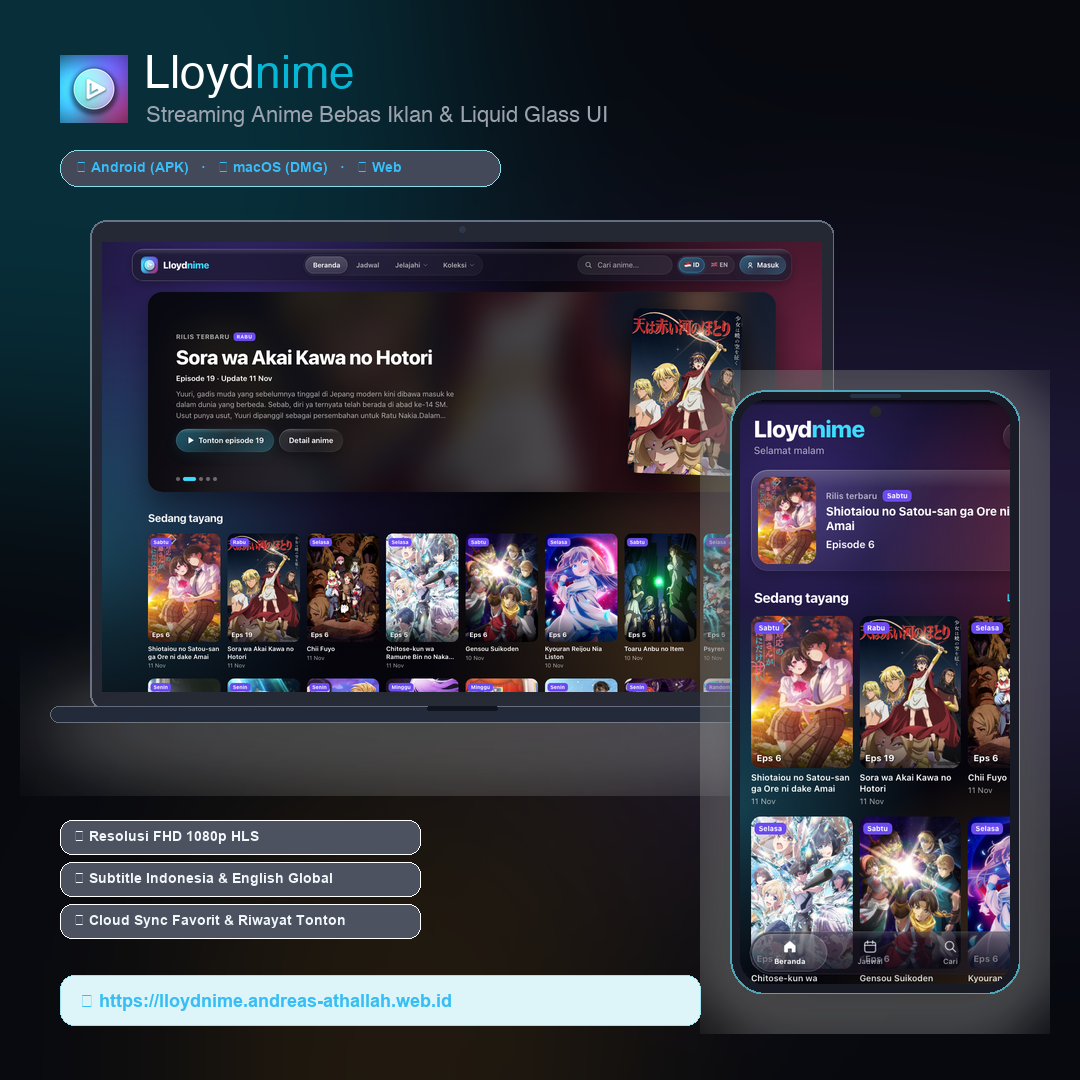
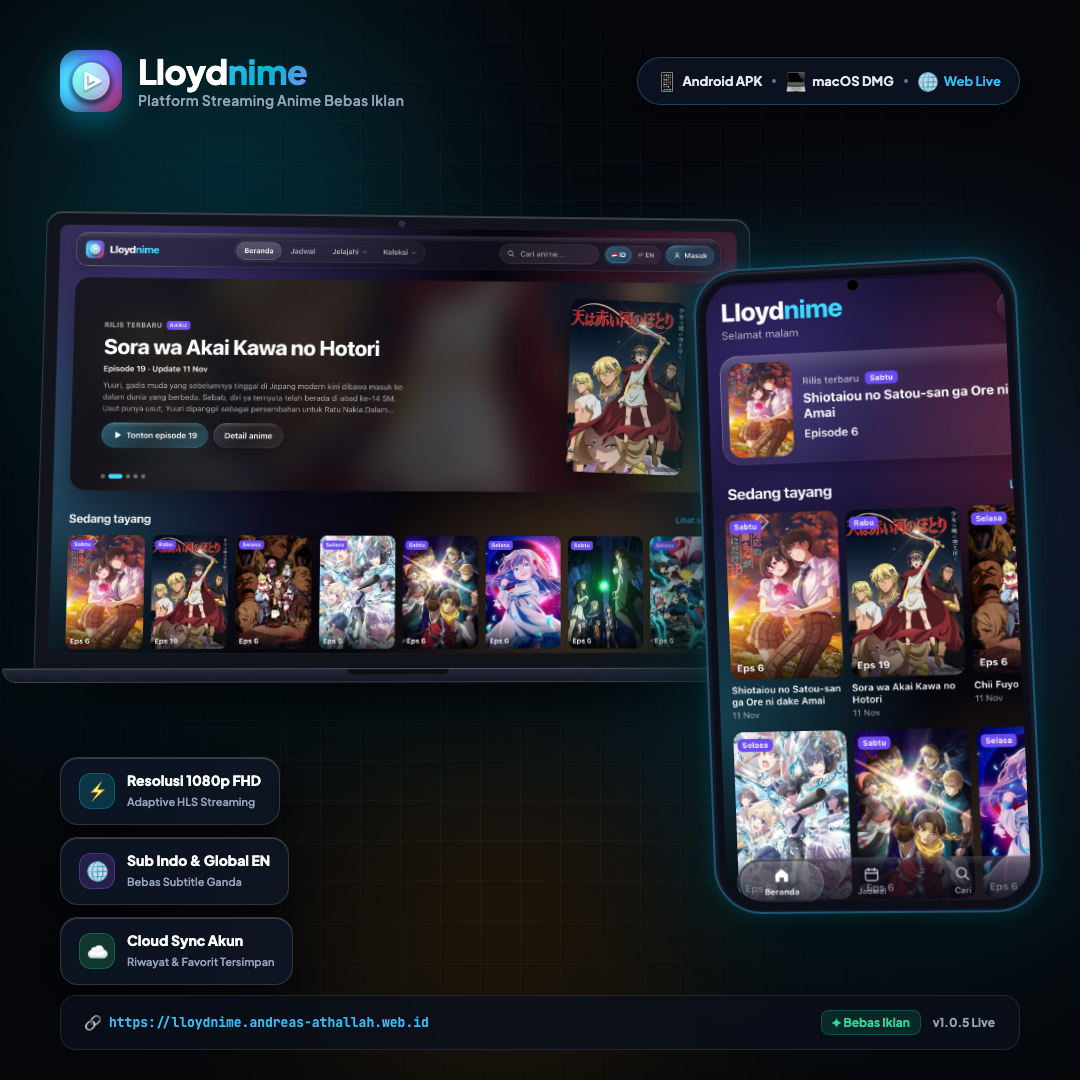
update(projects): perbarui mockup showcase resolusi tinggi Lloydnime

diff --git a/src/components/sections/Projects.tsx b/src/components/sections/Projects.tsx
@@ -5,8 +5,8 @@ import spmbImage from "@assets/spmb-gema.png";
 import siBacaImage from "@assets/si-baca.png";
 import goodayzerImage from "@assets/goodayzer.png";
 import siapKerjaImage from "@assets/siap-kerja.png";
-import lloydifyImage from "@assets/lloydify.png";
-import lloydnimeImage from "@assets/LloydNime.png";
+import lloydifyImage from "@assets/lloydify_showcase.png";
+import lloydnimeImage from "@assets/lloydnime_showcase.png";
 
 type ProjectCategory = "all" | "web" | "mobile";
 
@@ -44,16 +44,16 @@ export function Projects() {
     },
     {
       id: "lloydify",
-      title: "Lloydify: Pemutar Musik Streaming Bebas Iklan & Impor Spotify",
-      category: "mobile",
-      categoryLabel: "Mobile App (Android) & Scraper API",
-      description: "Aplikasi pemutar musik Android bertema liquid glass yang memungkinkan pencarian dan streaming jutaan lagu YouTube tanpa jeda iklan, impor playlist Spotify instan tanpa login akun, lirik tersinkron ala karaoke, serta kontrol audio di layar kunci dan Dynamic Island.",
+      title: "Lloydify: Ekosistem Streaming Musik Bebas Iklan Lintas Platform (Android, macOS & Web)",
+      category: ["web", "mobile"],
+      categoryLabel: "Cross-Platform Music Streaming (Flutter + Vite TS) & Scraper API",
+      description: "Aplikasi pemutar musik modern bertema liquid glass yang hadir untuk Android dan MacBook (macOS DMG), didampingi website landing page responsif (Vite + TypeScript). Memungkinkan pencarian dan streaming jutaan lagu YouTube tanpa jeda iklan, impor playlist Spotify instan tanpa login akun, lirik tersinkron ala karaoke, kontrol audio lockscreen & Dynamic Island, serta fitur Dengar Musik Bareng via WebSocket.",
       image: lloydifyImage,
-      tags: ["Flutter", "Dart", "Node.js", "Express", "YouTube API", "Android"],
+      tags: ["Flutter", "Dart", "TypeScript", "Node.js", "Express", "WebSocket", "Android", "macOS"],
       github: "https://github.com/Zyuuxyncool/app_music",
       demo: "https://music.andreas-athallah.web.id",
-      statusBadge: "Live Release v1.0.2",
-      metrics: ["Streaming Audio Murni Bebas Iklan", "Impor Playlist Spotify Tanpa Login", "Lirik Real-Time & Liquid Glass UI"],
+      statusBadge: "Live Release v1.2.0",
+      metrics: ["Cross-Platform: Android, macOS & Web", "Impor Playlist Spotify Instan Tanpa Login", "Lirik Real-Time & Dengar Musik Bareng (WebSocket)"],
     },
     {
       id: "spmb-gema",
